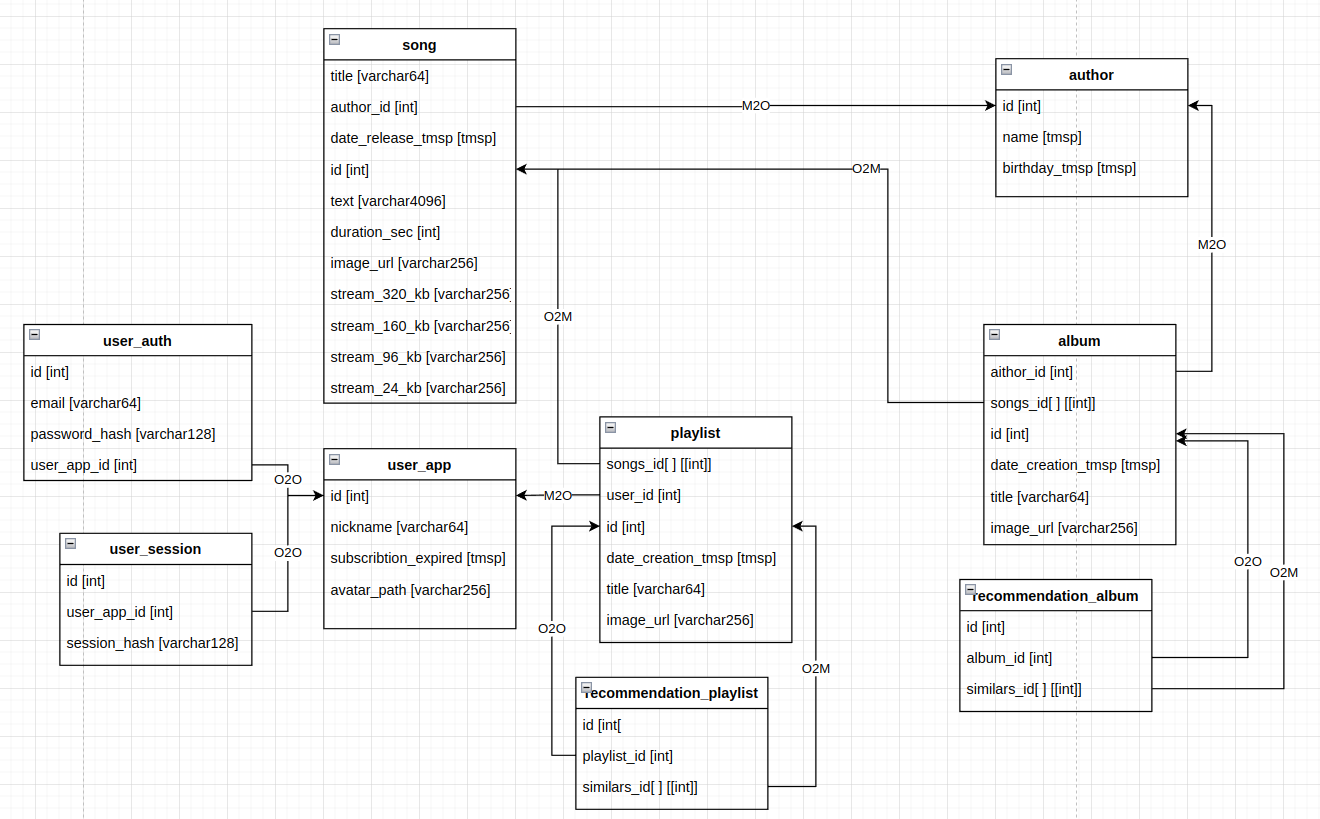
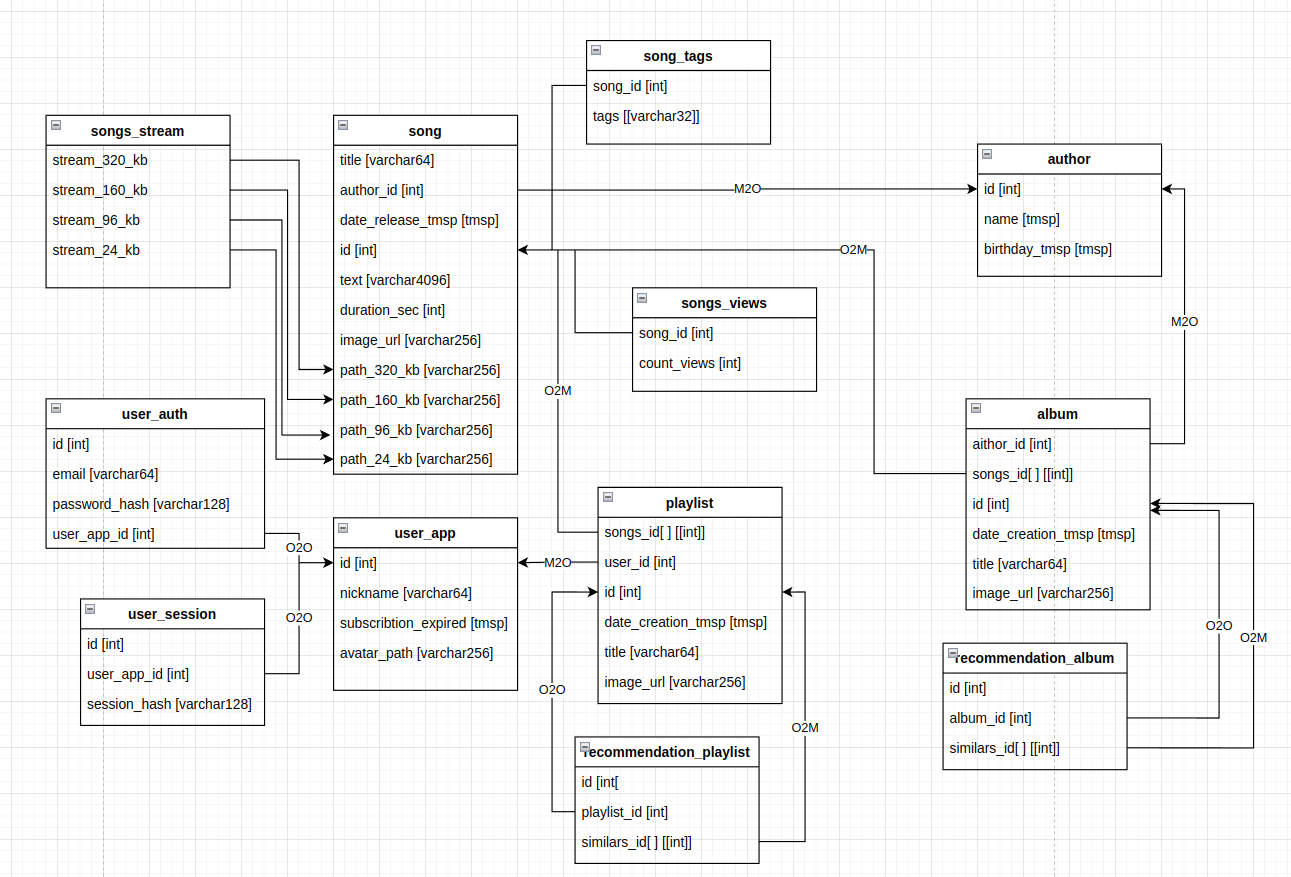
update phis and log scheme, fix calcs

diff --git a/README.md b/README.md
@@ -100,55 +100,55 @@
 
 **Дневной трафик**:
 
-DAU * t_dau * stream_1 = 215 * 10^6 * 59 * 60 * (0.38 * 320 + 0.62 * 160)[Кбит/с]/8 = 21006360000000 КБ/сут = 19564 ТБ/сут.
+DAU * t_dau * stream_1 = (215 * 10^6)[чел] * (59 * 60)[сек] * (0.38 * 320 + 0.62 * 160)[Кбит/с]/8 = 21006360000000 КБ/сут = 19564 ТБ/сут.
 
 **Трафик в секунду**:
 
-19564 / 24 / 3600 * 8 = 1.8 Тбит/с
+19564[ТБ/сут] / (24 * 3600)[сек] * 8 = 1.8 Тбит/с
 
 В среднем в секунду сайтом пользуются:
 
-DAU * t_dau / day = 215 * 10^6 * 59 * 60 / 24 / 60 / 60 = 8.8 млн. человек
+DAU * t_dau / day = (215 * 10^6)[чел] * (59 * 60)[сек] / (24 * 3600)[сек] = 8.8 млн. человек
 
 Пусть в пиковые часы сайтом пользуются в 2 раза больше человек, чем в среднем по дню:
 
-use_sec * k_peak * stream_1 = 8.8 * 10^6 * 2 * (0.38 * 320 + 0.62 * 160)[Кбит/с] = 3886080000 Кбит/с = **3.6** Тбит/с
+use_sec * k_peak * stream_1 = (8.8 * 10^6)[чел] * 2 * (0.38 * 320 + 0.62 * 160)[Кбит/с] = 3886080000 Кбит/с = **3.6** Тбит/с
 
 Загрузка аудиофайла.
 Каждый день добавляется 60 тыс. песен.
 
-N_s_day * size_1 / day = 60 * 10^3 * (0.58 + 2.3 + 3.8 + 7.7)[МБ] / 24 / 60 / 60 * 8 = 80 Мбит/с
+N_s_day * size_1 / day = (60 * 10^3)[песен] * (0.58 + 2.3 + 3.8 + 7.7)[МБ] / (24 * 3600)[сек] * 8 = 80 Мбит/с
 
 ### RPS
 **Авторизация**
 
 Пусть запрос на авторизацию совершается раз в 3 месяца
 
-MAU * auth_month / month = 489 * 10^6 / 3 / 30 / 24 / 60 / 60 = 63 RPS
+MAU * auth_month / month = (489 * 10^6)[чел] / 3 / (30 * 24 * 3600)[сек] = 63 RPS
 
 **Получение информации о своем плейлисте**
 
 Пусть человек заходит в свою медиатеку 3 раза в день
 
-DAU * n_media-use / day =  215 * 10^6 * 3 / 24 / 60 / 60 = 7465 RPS
+DAU * n_media-use / day =  (215 * 10^6)[чел] * 3 / (24 * 3600)[сек] = 7465 RPS
 
 **Получение информации об конкретном альбоме, плейлисте**
 
 Пусть человек прослушивает 2 плейлиста в день:
 
-DAU * n_pl-use / day = 215 * 10^6 * 2 / 24 / 60 / 60 = 4977 RPS
+DAU * n_pl-use / day = (215 * 10^6)[чел] * 2 / (24 * 3600)[сек] = 4977 RPS
 
 **Добавление трека в плейлист**
 
 Пусть добавляет в плейлист в среднем 3 трека в день:
 
-DAU * n_put-pl / day = 215 * 10^6 * 3 / 24 / 60 / 60 = 7465 RPS
+DAU * n_put-pl / day = (215 * 10^6)[чел] * 3 / (24 * 3600)[сек] = 7465 RPS
 
 **Создание плейлиста**
 
 Пусть человек создает новый плейлист раз в 3 месяца:
 
-MAU n_add-pl / month = 489 * 10^6 / 3 / 30 / 24 / 60 / 60 = 63 RPS
+MAU n_add-pl / month = (489 * 10^6)[чел] / 3 / (30 * 24 * 3600)[сек] = 63 RPS
 
 **Стриминг аудиофайла**
 
@@ -158,17 +158,17 @@ MAU n_add-pl / month = 489 * 10^6 / 3 / 30 / 24 / 60 / 60 = 63 RPS
 
 t_day / dur_mid = 59 * 60 / 197 = 18 треков в среднем пользователь слушает в день
 
-DAU * n_tr / day = 215 * 10^6 * 18 / 24 / 60 / 60 = 44792 RPS
+DAU * n_tr / day = (215 * 10^6)[чел] * 18[треков] / (24 * 3600)[сек] = 44792 RPS
 
 **Загрузка аудиофайла**
 
 Каждый день добавляется 60 тыс. песен
-n_add-tr / day = 60 * 10^3 / 24 / 60 / 60 = 0.7 RPS
+n_add-tr / day = (60 * 10^3)[песен] / (24 * 3600)[сек] = 0.7 RPS
 
 **Получение информации о песне**
 
 В среднем пользователь слушает в день 18 треков
-DAU * n_tr / day = 215 * 10^6 * 18 / 24 / 60 / 60 = 44792 RPS
+DAU * n_tr / day = (215 * 10^6)[чел] * 18[треков] / (24 * 3600)[сек] = 44792 RPS
 
 **Рекомендации**
 
@@ -176,13 +176,13 @@ DAU * n_tr / day = 215 * 10^6 * 18 / 24 / 60 / 60 = 44792 RPS
 
 Было принято, что человек прослушивает 2 плейлиста в день. Однако прослушивания сопровождаются пропусками и сменой плейлистов. Предположим, что пользователь слушает по 3 трека из плейлиста => 18 треков в день / 3 = 6 плейлистов в день
 
-DAU * n_pl-day / day = 215 * 10^6 * 6 / 24 / 60 / 60 = 14930 RPS
+DAU * n_pl-day / day = (215 * 10^6)[чел] * 6 / (24 * 3600)[сек] = 14930 RPS
 
 **Поиск**
 
 Пусть человек пользуется поиском 3 раза в день
 
-DAU * n_search / day = 215 * 10^6 * 3 / 24 / 60 / 60 = 7465 RP
+DAU * n_search / day = (215 * 10^6)[чел] * 3 / (24 * 3600)[сек] = 7465 RP
 
 
 ## 3. Логическая схема БД <a name="3"></a>
@@ -192,6 +192,24 @@ DAU * n_search / day = 215 * 10^6 * 3 / 24 / 60 / 60 = 7465 RP
 
 
 ## 4. Физическая схема БД <a name="4"></a>
+### Добавление трека
+
+1. После валидации запроса бэкенд Facad ставит в очередь задачу на загрузки и возвращает клиенту 200
+2. Клиент подписывается на загрузку файла. В асинхронном режиме файл загружается в s3 и kafka создаёт событие об успешной загрузке. Клиенту отрисовывается иконка
+3. Далее бэкенд uploadAudio создаёт записи в таблицах song и tags.
+4. uploadAudio ставит задачу на создание рекомендаций для этого трека (см. далее).
+5. Далее клиенту через kafka также приходит сообщение о том, что трэк загружен, рекомендации cкоро появятся.
+
+### Рекомендации
+Хранятся в таблице recomedns. Однако необходимо разделить операции чтения и записи. Бэкенд recomends может только читать. Обновляет рекомендации специальный сервис updateRecoms.
+
+Рассмотрим подробнее:
+1. После получения задачи в Kafka updateRecoms в удобное (несильно нагруженное) обращается к Cassandra.
+2. Выгребает из таблицы tags все похожие по тэгам треки
+3. Выгребает по айдишникамм количество прослушиваний для этого трека.
+4. Фильтрует выбранные треки по убыванию по числу прослушиваний, объединяет в массив и записывает в таблицу recomends. Теперь бэкенд recomends может отдавать рекомендации для нового трека
+
+Аналогично происходит обновление для старых треков, добавленных раньше новых. Когда новый трэк становится популярным (более 100 тыс. прослушиваний условно), то ставится задача по обнолению треков, похожих на этот.
 
 ### Используемые хранилища
 
